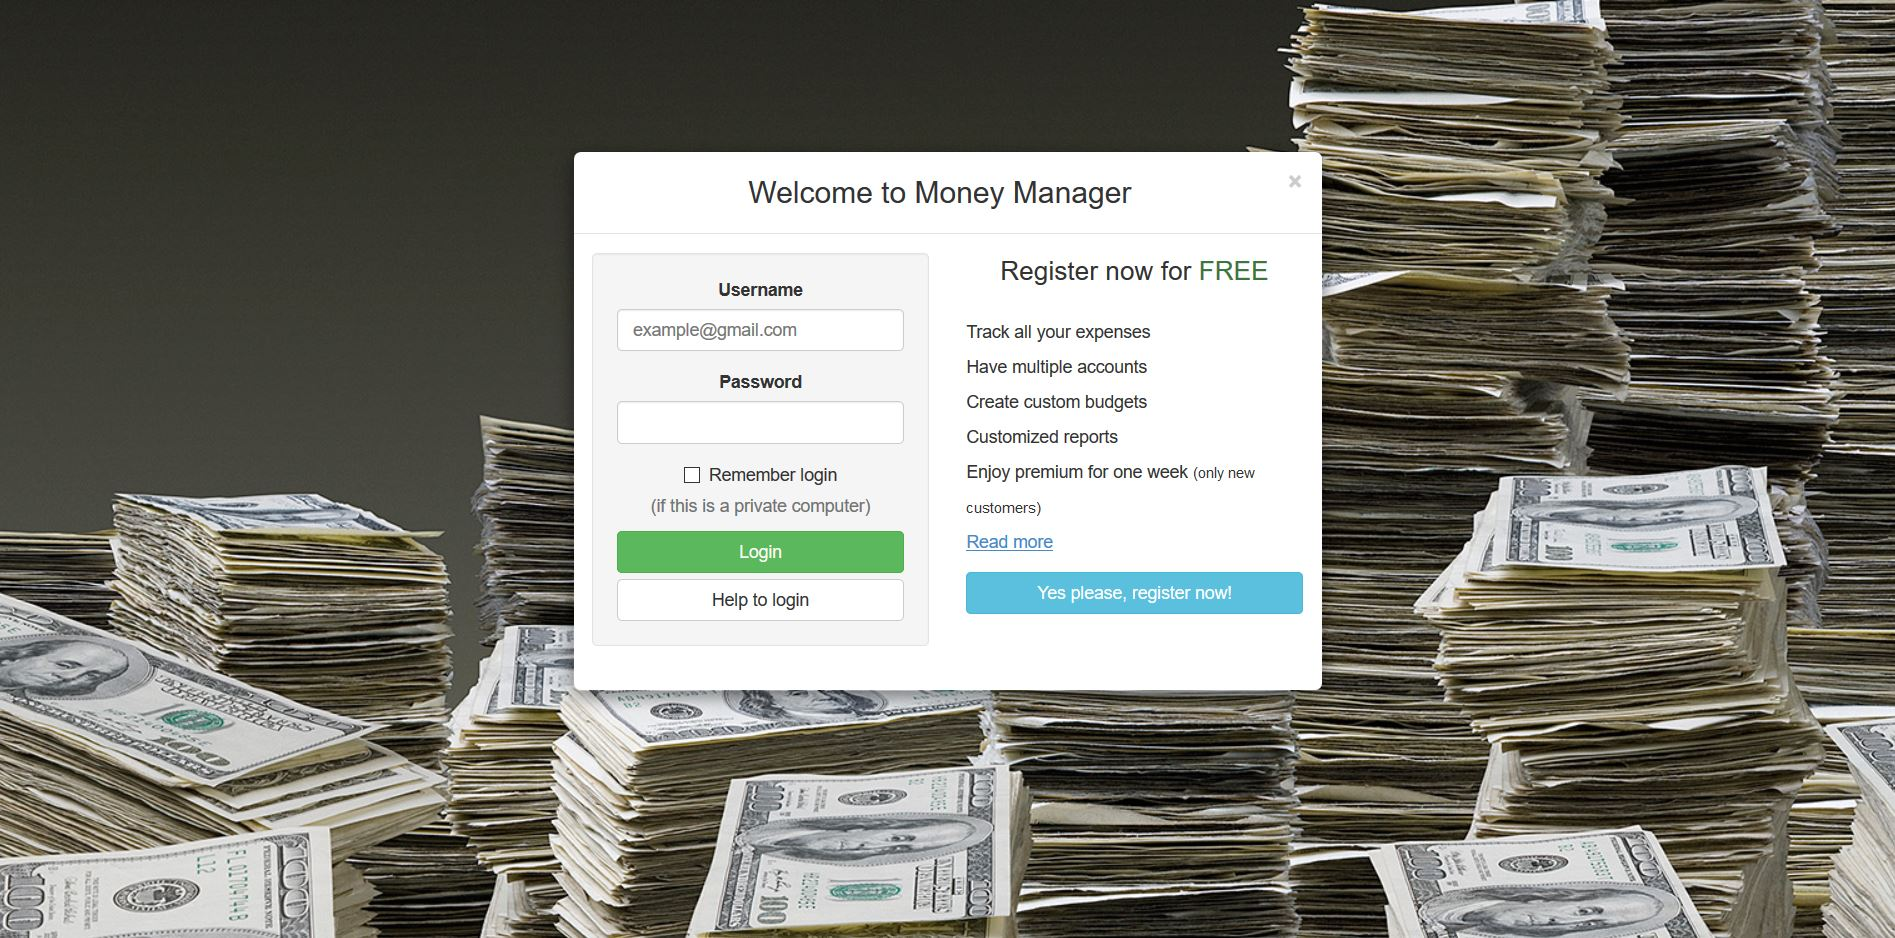
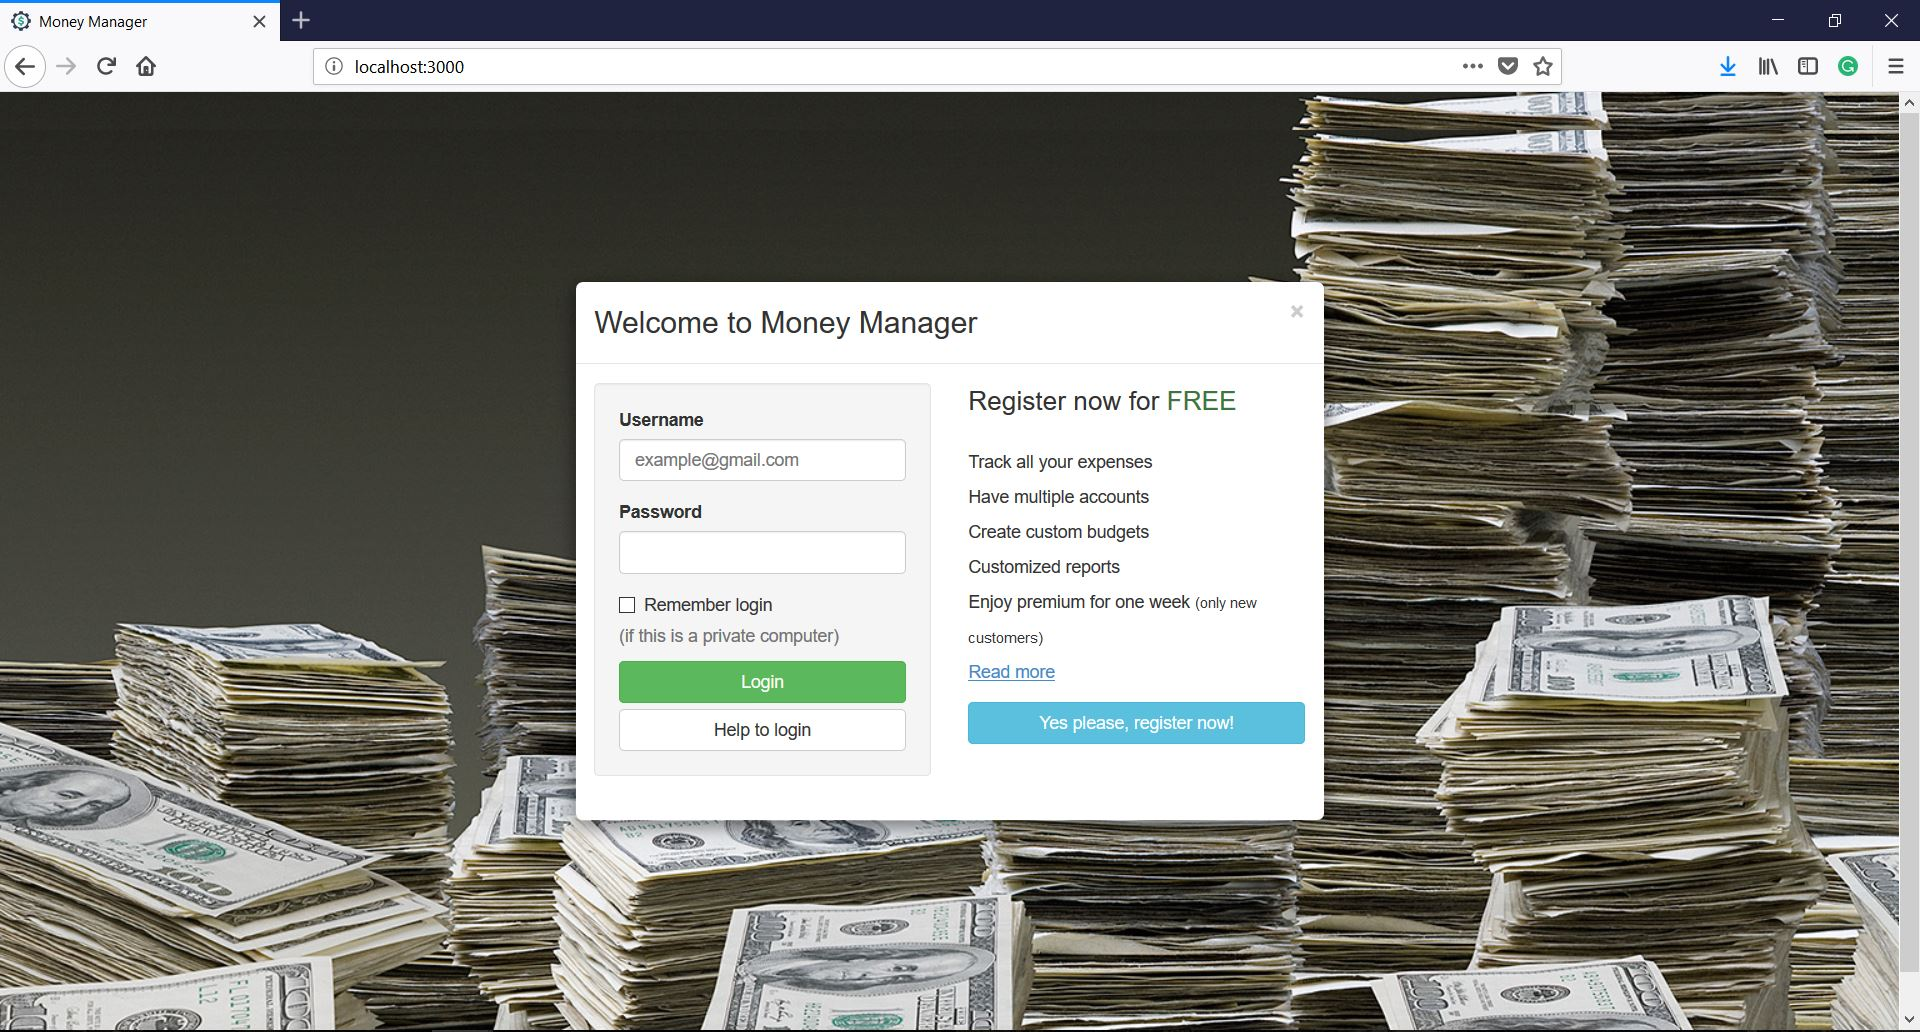
Changed the text alignment and added new screenshot

diff --git a/client/src/Components/SignInPage.js b/client/src/Components/SignInPage.js
@@ -56,7 +56,7 @@ class SignInPage extends Component {
                             </div>
                             <div className="col-xs-6">
                                 <p className="lead">Register now for <span className="text-success">FREE</span></p>
-                                <ul className="list-unstyled" style={{lineHeight: 2, textAlign:'left'}}>
+                                <ul className="list-unstyled" style={{lineHeight: 2}}>
                                     <li><span className="fa fa-check text-success"></span> Track all your expenses</li>
                                     <li><span className="fa fa-check text-success"></span> Have multiple accounts</li>
                                     <li><span className="fa fa-check text-success"></span> Create custom budgets</li>

diff --git a/client/public/index.html b/client/public/index.html
@@ -9,7 +9,7 @@
       homescreen on Android. See https://developers.google.com/web/fundamentals/engage-and-retain/web-app-manifest/
     -->
     <link rel="manifest" href="%PUBLIC_URL%/manifest.json">
-    <link rel="shortcut icon" href="%PUBLIC_URL%/favicon.ico">
+    <link rel="shortcut icon" href="%PUBLIC_URL%/mmicon.png">
     <!--
       Notice the use of %PUBLIC_URL% in the tags above.
       It will be replaced with the URL of the `public` folder during the build.
@@ -19,7 +19,7 @@
       work correctly both with client-side routing and a non-root public URL.
       Learn how to configure a non-root public URL by running `npm run build`.
     -->
-    <title>React App</title>
+    <title>Money Manager</title>
   </head>
   <body>
     <noscript>

diff --git a/client/src/App.css b/client/src/App.css
@@ -5,7 +5,6 @@ html, body {
 }
 
 .App {
-  text-align: center;
 }
 
 .App-logo {
